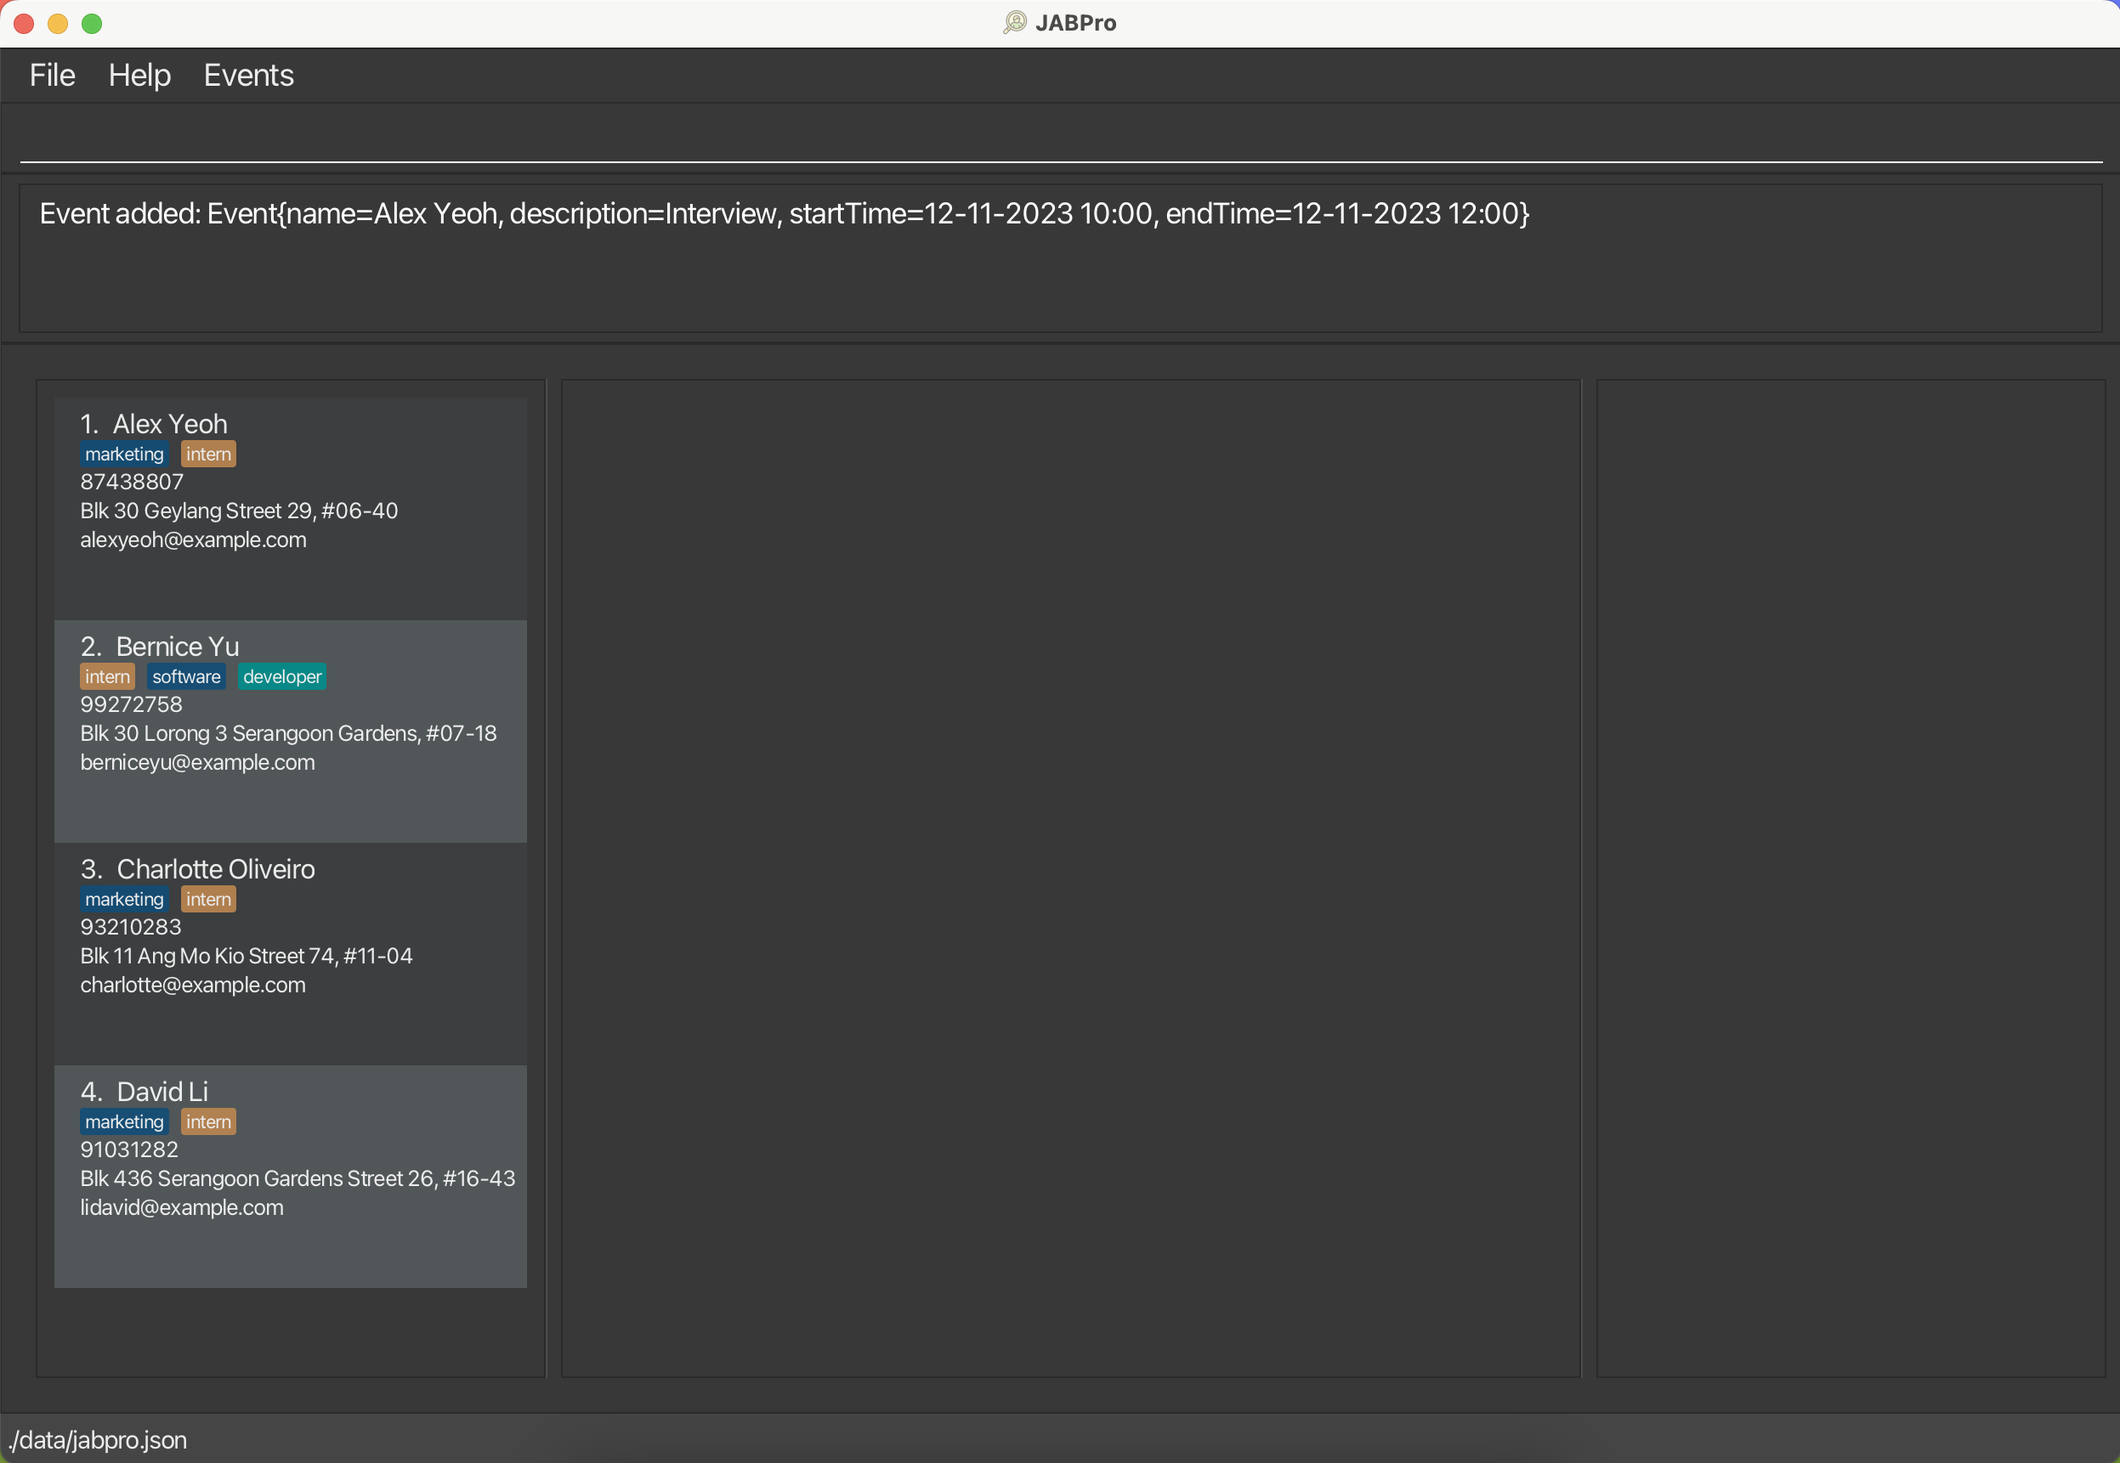
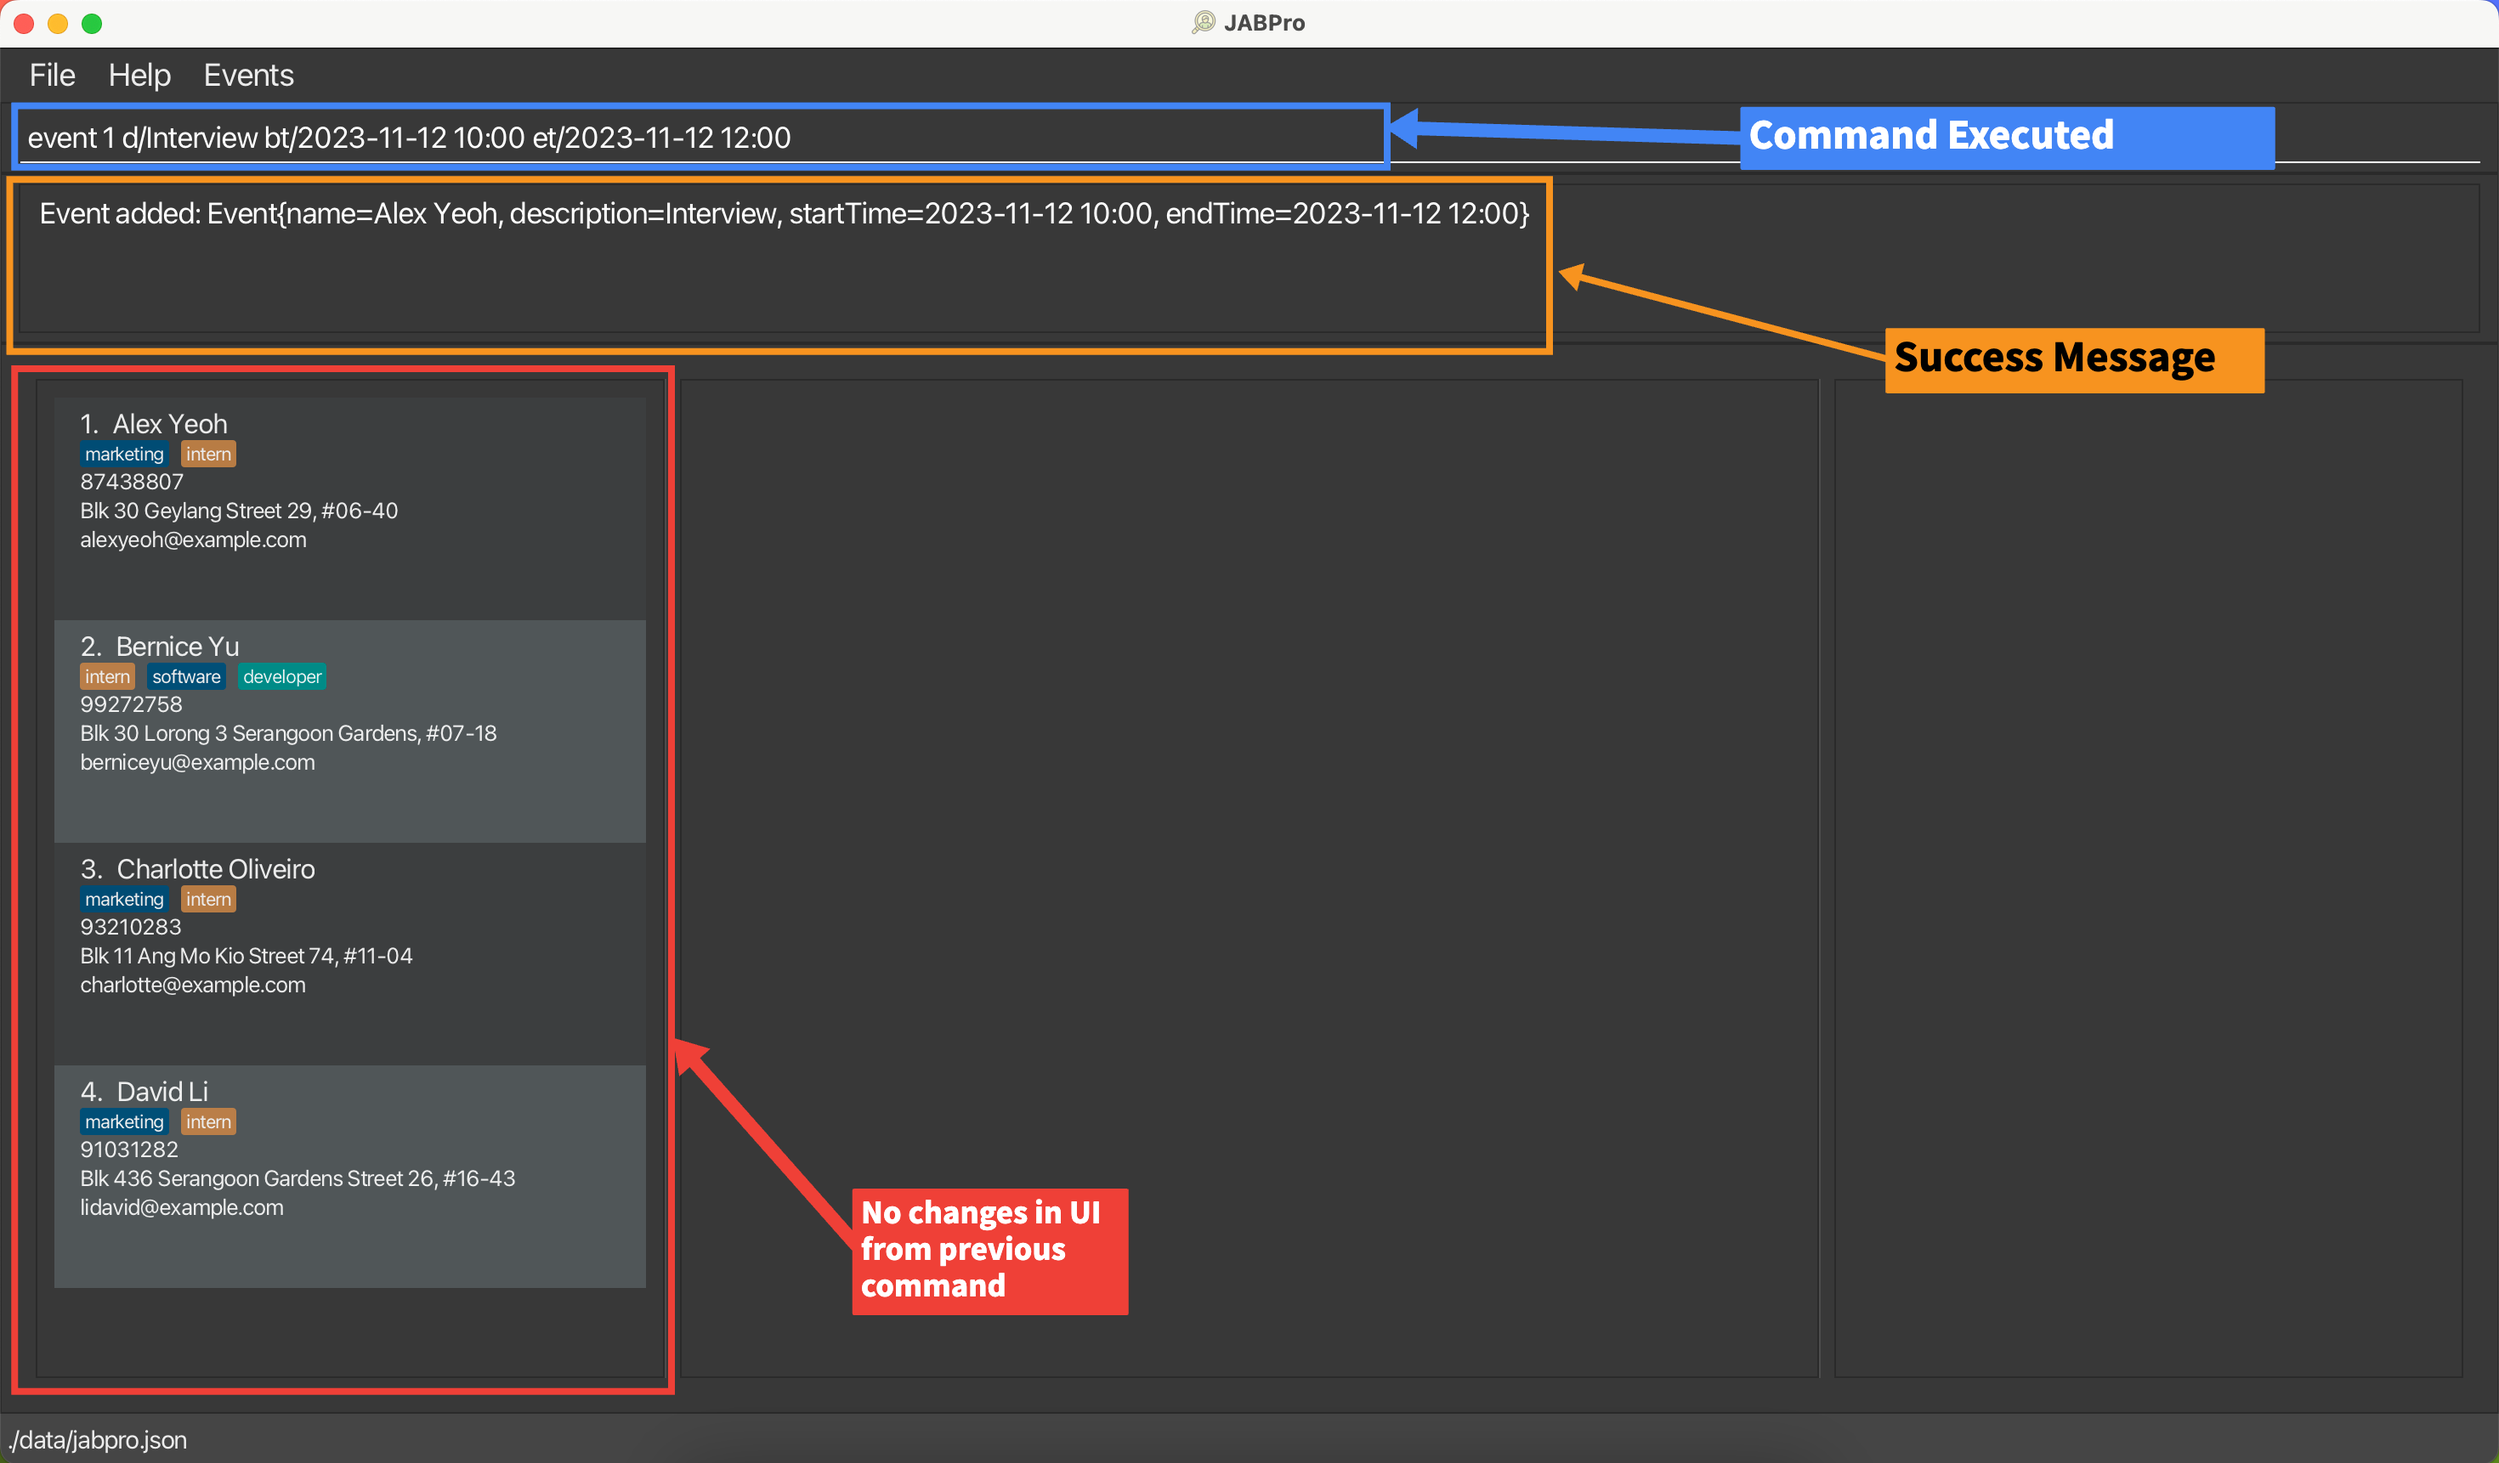
Update UG

Changed region(s): [[0.0, 0.0, 0.9262, 1.0], [0.6792, 0.2154, 0.9262, 0.277], [0.4631, 0.0, 0.5249, 0.0308]]

diff --git a/docs/UserGuide.md b/docs/UserGuide.md
@@ -592,9 +592,17 @@ Format: `event INDEX d/DESCRIPTION bt/BEGIN_TIME et/END_TIME`
 1. Enter the command `event 1 d/Interview bt/2023-11-12 10:00 et/2023-11-12 12:00`
 2. This is the result of the successful `event` command [It is assumed a candidate called Alex Yeoh exists in JABPro]:
 
+![Event](images/event.png)
 
-Example:
-* `event 1 d/Interview bt/2023-10-27 18:00 et/2023-10-27 21:00` adds an event to the list, and stores the name of the person the event is associated with, the description, start time and end time, in a JSON file.
+The changes in UI take place in the `Events Window`. Please find more details in [Viewing Events](UserGuide.md#viewing-events-schedule).
+
+**Example of failed execution of `event` command due to missing parameter:**
+
+1. Enter the command `event 1 d/Interview bt/2023-11-12 10:00`
+2. This is the result of the failed `event` command [It is assumed a candidate exists in JABPro]:
+
+![EventFailure](images/eventfail.png)
+
 
 ### Viewing events: `schedule`
 
@@ -602,7 +610,9 @@ Displays all events that have been added to JABPro.
 
 Format: `schedule`
 
-* Opens the `Events` window and displays all events that have been previously added.
+**Note regarding `schedule` command:**
+
+* `schedule` command will open the `Events` window regardless of whether there are events in JABPro or not.
 
 <box type="tip" seamless>
 
@@ -612,9 +622,18 @@ Format: `schedule`
 
 </box>
 
-Example:
-* First, entering `event 1 d/Interview bt/2023-10-27 18:00 et/2023-10-27 21:00` adds the event, and entering `schedule` displays this event in a separate window, titled `Events`
+**Example of successful execution of `schedule` command:**
 
+1. Enter the command `schedule`
+2. This is the result of the successful `schedule` command [It is assumed that an event was previously added using the command `event 1 d/Interview bt/2023-11-12 10:00 et/2023-11-12 12:00]:
+
+![Schedule](images/schedule.png)
+
+The `Events` window opens up:
+
+![EventWindow](images/eventwin.png)
+
+There is no possibility of a "failed" execution of the `schedule` command.
 
 
 ### Clearing all entries : `clear`

diff --git a/docs/DeveloperGuide.md b/docs/DeveloperGuide.md
@@ -385,7 +385,6 @@ The following sequence diagram shows how the `Event` operation works:
 
 User should see the UI as shown below after executing the aforementioned command [It is assumed that the first candidate in the list is Alex Yeoh].
 
-![Event](images/event.png)
 
 ![EventWindow](images/eventwindow.png)
 
